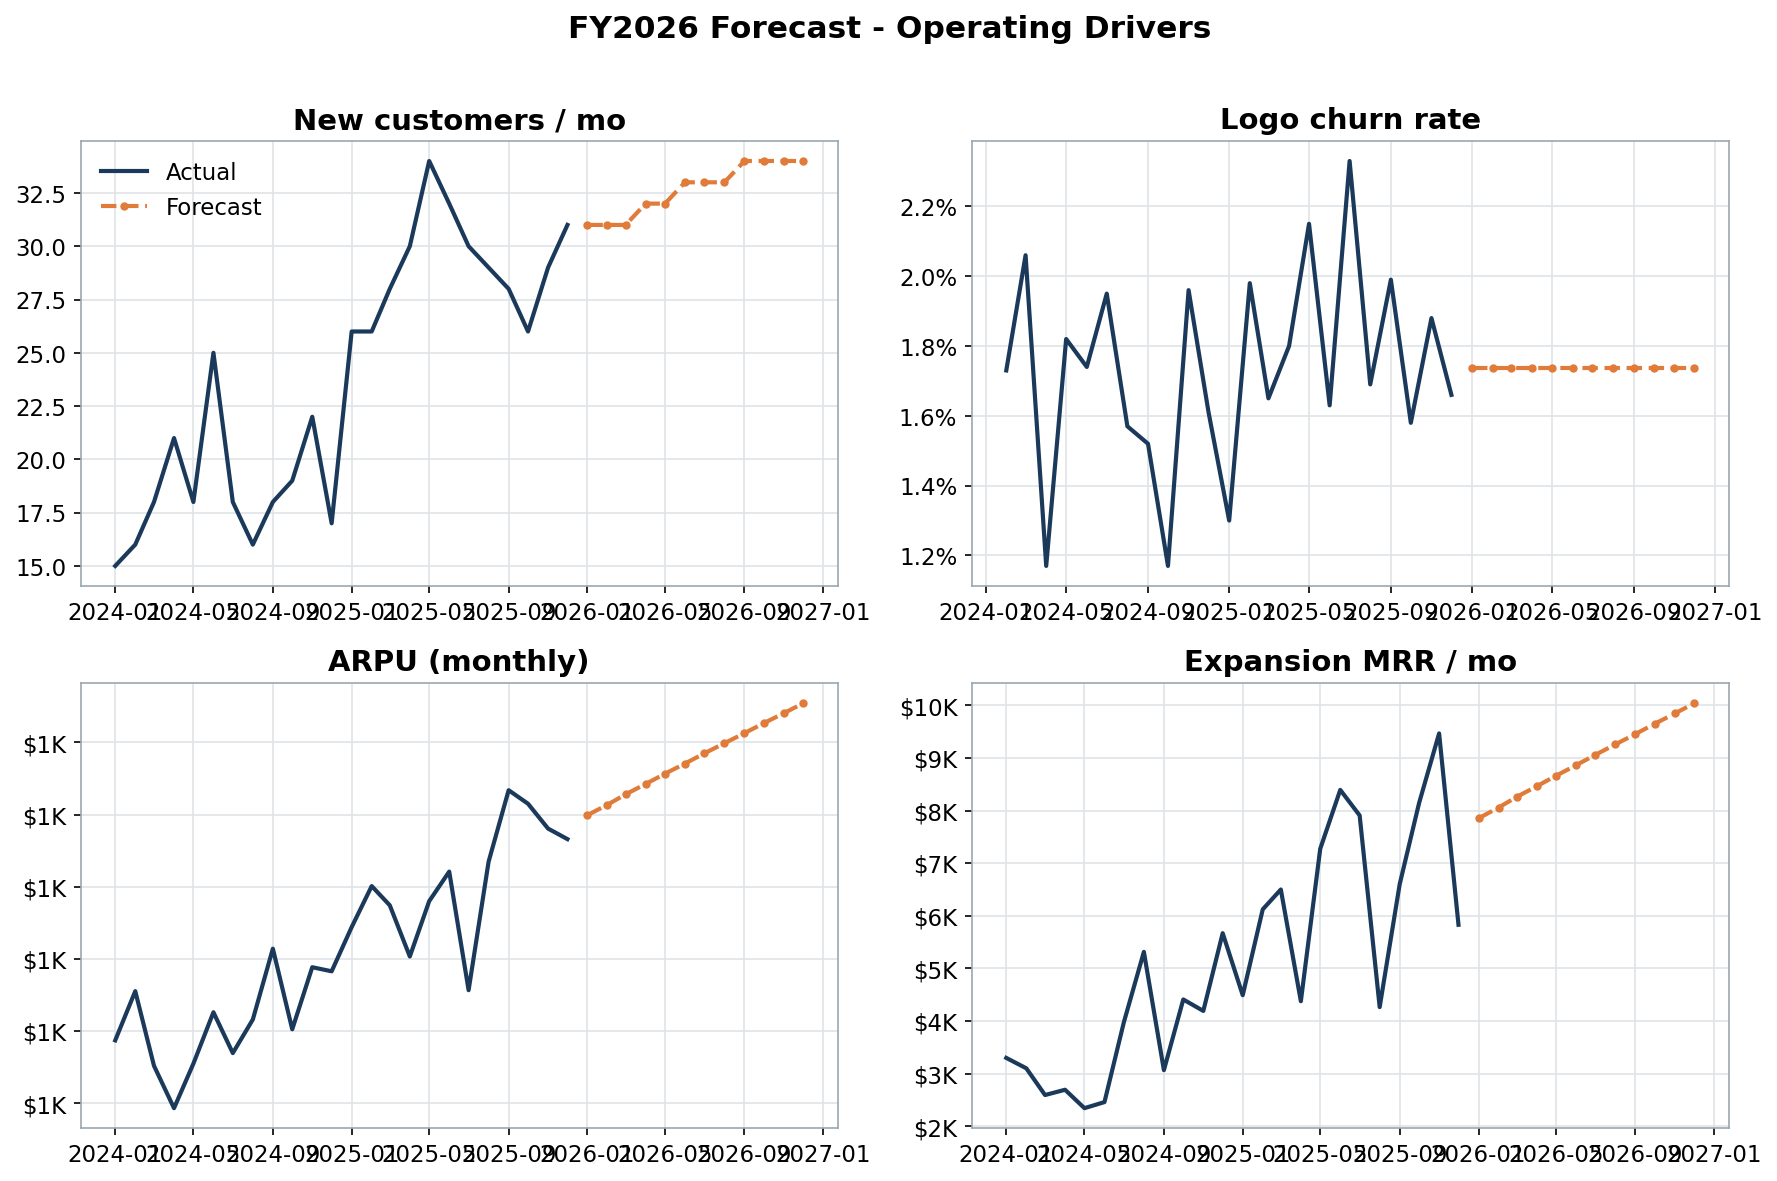
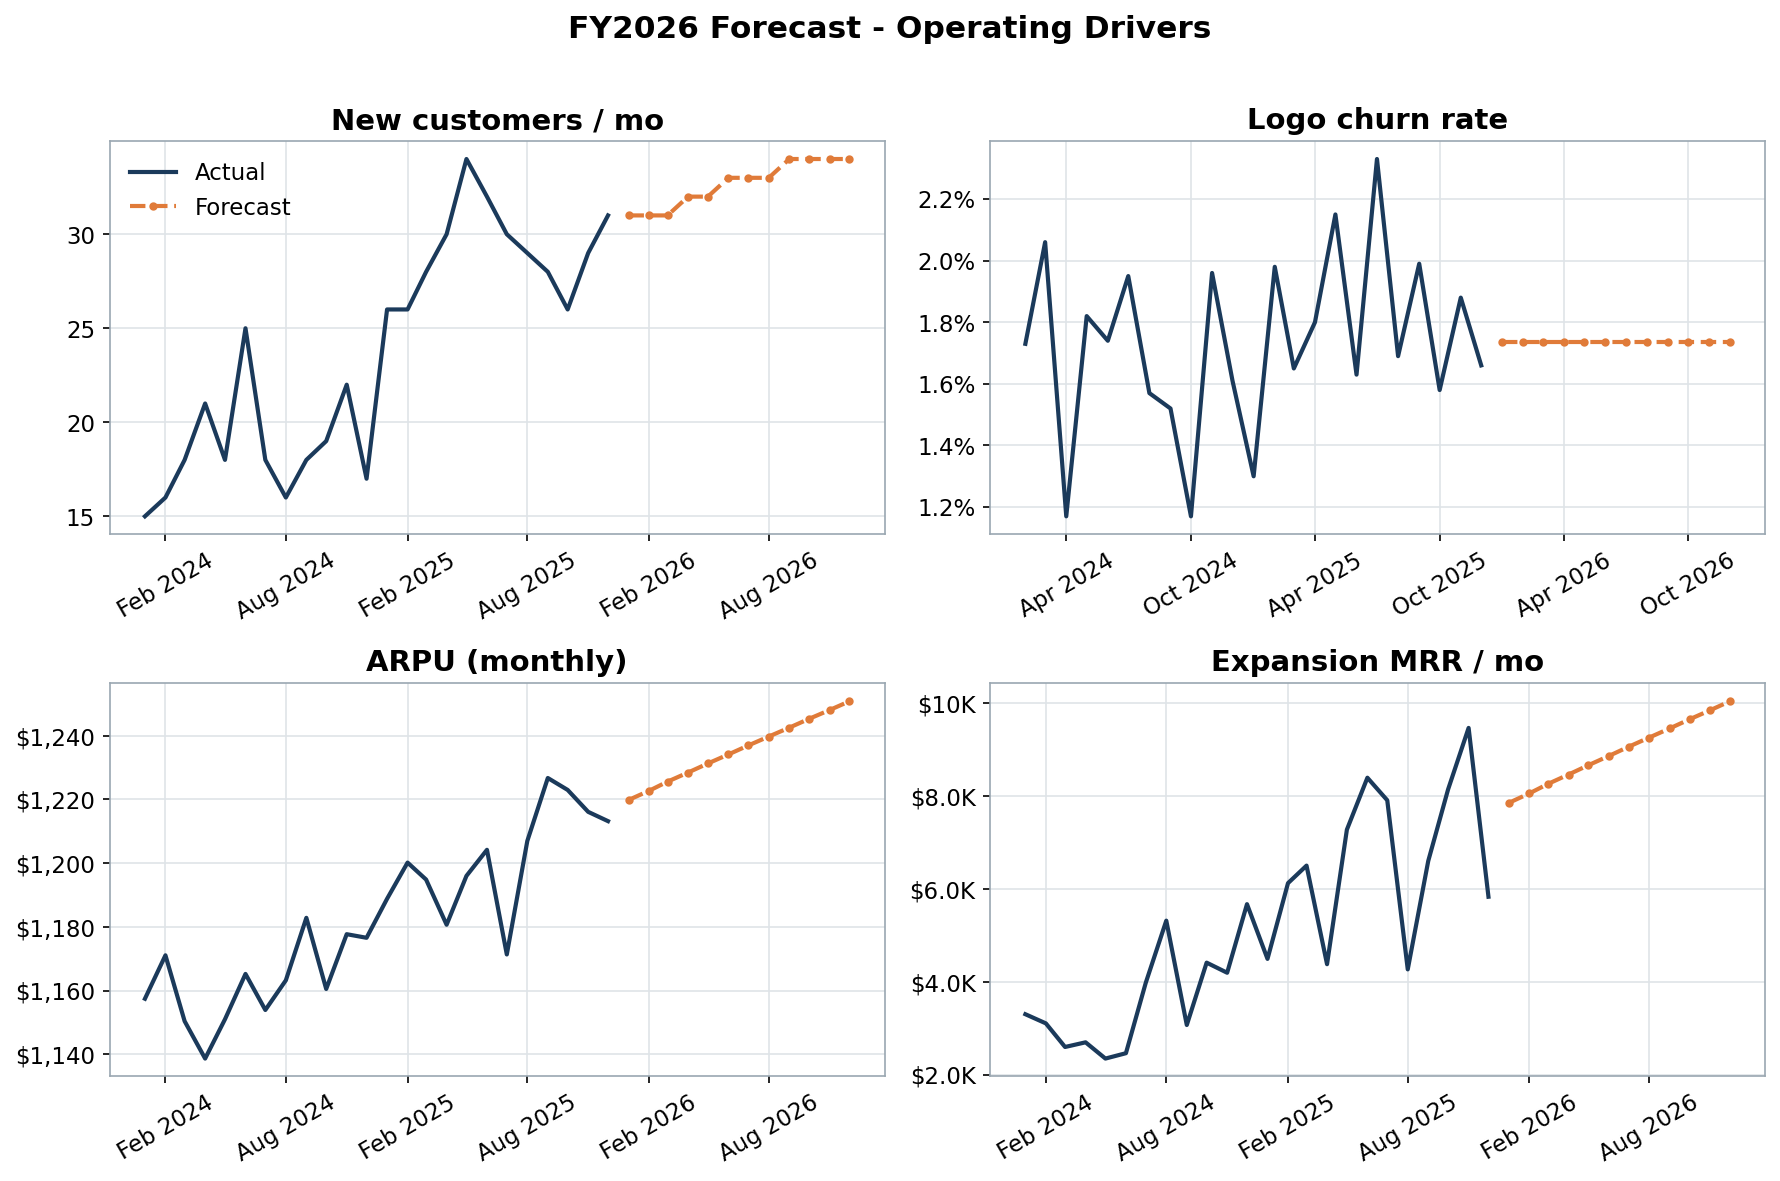
Fix overlapping x-axis dates and ARPU axis labels in driver forecast chart

Changed region(s): [[0.0, 0.0914, 1.0, 1.0], [0.3405, 0.0, 0.6809, 0.0305]]

diff --git a/src/forecast.py b/src/forecast.py
@@ -269,6 +269,7 @@ def plot_forecast(drivers: pd.DataFrame, fc: pd.DataFrame, bt: dict) -> None:
 
 def plot_drivers(drivers: pd.DataFrame, fc: pd.DataFrame) -> None:
     """Small-multiple view of the forecasted levers - the 'how' behind the ARR."""
+    import matplotlib.dates as mdates
     import matplotlib.pyplot as plt
     from matplotlib.ticker import FuncFormatter
 
@@ -278,7 +279,7 @@ def plot_drivers(drivers: pd.DataFrame, fc: pd.DataFrame) -> None:
     specs = [
         ("new_customers", "New customers / mo", None),
         ("logo_churn_rate", "Logo churn rate", "pct"),
-        ("arpu", "ARPU (monthly)", "money"),
+        ("arpu", "ARPU (monthly)", "dollar"),
         ("expansion_mrr", "Expansion MRR / mo", "money"),
     ]
     for ax, (col, title, fmt) in zip(axes.ravel(), specs):
@@ -289,8 +290,15 @@ def plot_drivers(drivers: pd.DataFrame, fc: pd.DataFrame) -> None:
         ax.set_title(title)
         if fmt == "money":
             ax.yaxis.set_major_formatter(FuncFormatter(utils.fmt_money))
+        elif fmt == "dollar":
+            ax.yaxis.set_major_formatter(FuncFormatter(lambda x, _: f"${x:,.0f}"))
         elif fmt == "pct":
             ax.yaxis.set_major_formatter(FuncFormatter(lambda x, _: f"{x*100:.1f}%"))
+        # One tick every 6 months, short format, slight rotation — keeps the
+        # date labels from overlapping in these narrow small-multiple panels.
+        ax.xaxis.set_major_locator(mdates.MonthLocator(interval=6))
+        ax.xaxis.set_major_formatter(mdates.DateFormatter("%b %Y"))
+        ax.tick_params(axis="x", labelrotation=30)
     axes[0, 0].legend(loc="upper left")
     fig.suptitle("FY2026 Forecast - Operating Drivers", fontsize=15,
                  fontweight="bold")

diff --git a/src/utils.py b/src/utils.py
@@ -117,9 +117,13 @@ def apply_style() -> None:
 
 
 def fmt_money(x, _pos=None) -> str:
-    """Axis formatter: 10266281 -> '$10.3M', 855523 -> '$856K'."""
+    """Axis formatter: 10266281 -> '$10.3M', 855523 -> '$856K', 1213 -> '$1.2K'."""
     if abs(x) >= 1e6:
         return f"${x / 1e6:.1f}M"
-    if abs(x) >= 1e3:
+    if abs(x) >= 1e4:
         return f"${x / 1e3:.0f}K"
+    if abs(x) >= 1e3:
+        # Keep a decimal for small-thousands (e.g. ARPU ~$1,200) so the axis
+        # labels stay distinct instead of all collapsing to "$1K".
+        return f"${x / 1e3:.1f}K"
     return f"${x:.0f}"